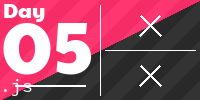
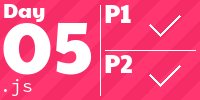
Add day 05 2022

diff --git a/2022/day-05/index.js b/2022/day-05/index.js
@@ -1,0 +1,43 @@
+const $ = require('../../helpers')
+
+// Pad the row with an extra space, then slice it into chunks of 4 characters
+// which follow this struct: `[A] ` or `    ` (for empty cells). Then trim and
+// get the letter which is at position 1 (or empty string if nothing).
+const parseRow = row => $.chunk(row + ' ', 4).map(item => item.trim()[1])
+
+// This function transforms a graphic “map” as given into an array of columns
+// where the top entry is at index 0.
+// Input:
+//     [D]
+// [N] [C]
+// [Z] [M] [P]
+//  1   2   3
+// Output:
+// [ ['N', 'Z'], ['D', 'C', 'M'], ['P'] ]
+const parseMap = map =>
+  $.grid
+    .rotate(map.split('\n').slice(0, -1).map(parseRow))
+    .map(column => column.filter(Boolean).reverse())
+
+const parseInstructions = instructions =>
+  instructions
+    .split('\n')
+    .filter(Boolean)
+    .map(instruction => instruction.match(/\d+/g))
+
+const process = (input, batch = false) => {
+  const map = parseMap(input[0])
+  const instructions = parseInstructions(input[1])
+
+  instructions.forEach(([amount, from, to]) => {
+    if (batch) {
+      map[to - 1].unshift(...map[from - 1].splice(0, amount))
+    } else
+      for (let i = 0; i < amount; i++)
+        map[to - 1].unshift(map[from - 1].shift())
+  })
+
+  return map.map(column => column[0]).join('')
+}
+
+module.exports = { process }

diff --git a/2022/day-05/test.js b/2022/day-05/test.js
@@ -1,0 +1,28 @@
+const test = require('ava')
+const { process } = require('./')
+const input = require('../../helpers/readInput')(__dirname, '\n\n', false)
+
+// prettier-ignore
+const sample = `    [D]    
+[N] [C]    
+[Z] [M] [P]
+ 1   2   3
+
+move 1 from 2 to 1
+move 3 from 1 to 3
+move 2 from 2 to 1
+move 1 from 1 to 2
+`.split('\n\n')
+
+test('Day 5.1', t => {
+  t.is(process(sample), 'CMZ')
+})
+
+test('Day 5.2', t => {
+  t.is(process(sample, true), 'MCD')
+})
+
+test('Day 5 — Solutions', t => {
+  t.is(process(input), 'DHBJQJCCW')
+  t.is(process(input, true), 'WJVRLSJJT')
+})

diff --git a/README.md b/README.md
@@ -2,7 +2,7 @@
 
 <!-- AOC TILES BEGIN -->
 <h1 align="center">
-  2022 - 8 ⭐
+  2022 - 10 ⭐
 </h1>
 <a href="2022/day-01/index.js">
   <img src="Media/2022/01.png" alt="Day 1 2022: Complete" width="161px">
@@ -15,6 +15,9 @@
 </a>
 <a href="2022/day-04/index.js">
   <img src="Media/2022/04.png" alt="Day 4 2022: Complete" width="161px">
+</a>
+<a href="2022/day-05/index.js">
+  <img src="Media/2022/05.png" alt="Day 5 2022: Complete" width="161px">
 </a>
 <h1 align="center">
   2021 - 45 ⭐
